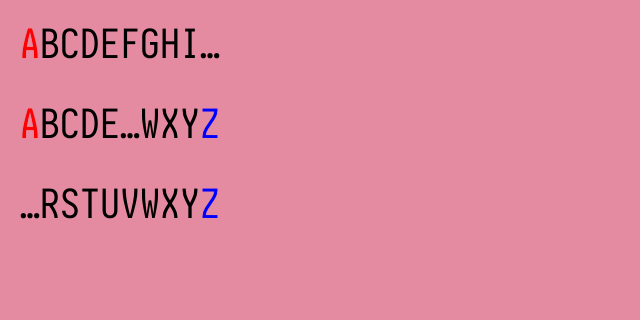
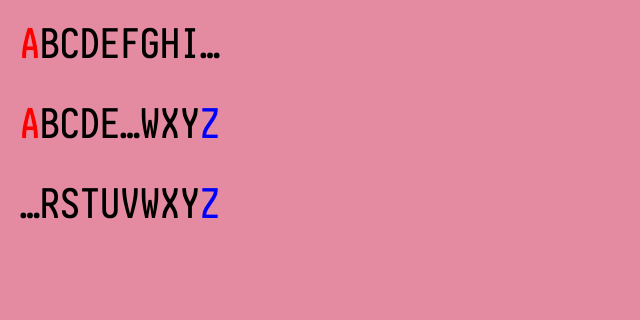
[V1 fix] Font-smoothed CoreText glyph masks on macOS
macOS draws text with font smoothing (stem darkening); the native mask path
drew alpha-only with smoothing off, so Rust text looked lighter than native Mac
apps. On macOS the mask now draws black on white in an opaque gray context with
smoothing on and inverts to coverage; iOS keeps the unsmoothed alpha path.

Evidence: font_sys native-canvas test (smoothed reference on macOS) passes;
Apple `_coretext` kit/ellipsis fixtures refreshed for this intentional raster
change, portable fixtures byte-identical; pxui_core 285, pxui 327, pxui_text 66,
pxui_render 48 tests; shape/deps/tiers gates pass.

Changed region(s): [[0.0312, 0.3438, 0.3438, 0.4375], [0.0312, 0.5938, 0.3438, 0.6875], [0.0312, 0.0938, 0.3438, 0.1875]]

diff --git a/crates/open/font_sys/src/mask.c b/crates/open/font_sys/src/mask.c
@@ -1,5 +1,6 @@
 #include <CoreGraphics/CoreGraphics.h>
 #include <CoreText/CoreText.h>
+#include <TargetConditionals.h>
 #include <math.h>
 #include <stdint.h>
 #include <string.h>
@@ -73,6 +74,19 @@ static int prepare_bitmap(CGContextRef *bitmap, size_t width, size_t height) {
     size_t h = *bitmap ? CGBitmapContextGetHeight(*bitmap) : 0;
     if (w >= width && h >= height) return 1;
 
+#if TARGET_OS_OSX
+    // macOS draws text with font smoothing (its stem darkening), which CoreGraphics applies only to glyphs on an opaque
+    // background: black on white in gray, inverted to coverage after drawing (`invert` below)
+    CGColorSpaceRef gray = CGColorSpaceCreateDeviceGray();
+    CGContextRef fresh = gray ? CGBitmapContextCreate(NULL, scratch_size(w, width), scratch_size(h, height),
+                                                      8, 0, gray, kCGImageAlphaNone) : NULL;
+    if (gray) CGColorSpaceRelease(gray);
+    if (!fresh) return 0;
+    CGContextSetAllowsAntialiasing(fresh, true);
+    CGContextSetShouldAntialias(fresh, true);
+    CGContextSetAllowsFontSmoothing(fresh, true);
+    CGContextSetShouldSmoothFonts(fresh, true);
+#else
     CGContextRef fresh = CGBitmapContextCreate(NULL, scratch_size(w, width), scratch_size(h, height),
                                                8, 0, NULL, kCGImageAlphaOnly);
     if (!fresh) return 0;
@@ -80,11 +94,16 @@ static int prepare_bitmap(CGContextRef *bitmap, size_t width, size_t height) {
     CGContextSetShouldAntialias(fresh, true);
     CGContextSetAllowsFontSmoothing(fresh, false);
     CGContextSetShouldSmoothFonts(fresh, false);
+#endif
     CGContextSetAllowsFontSubpixelPositioning(fresh, true);
     CGContextSetShouldSubpixelPositionFonts(fresh, true);
     CGContextSetAllowsFontSubpixelQuantization(fresh, true);
     CGContextSetShouldSubpixelQuantizeFonts(fresh, true);
+#if TARGET_OS_OSX
+    CGContextSetGrayFillColor(fresh, 0, 1);
+#else
     CGContextSetGrayFillColor(fresh, 1, 1);
+#endif
 
     if (*bitmap) CFRelease(*bitmap);
     *bitmap = fresh;
@@ -109,11 +128,22 @@ int pxui_font_mask_draw(CTFontRef font, CGContextRef *bitmap, CGGlyph glyph,
     if (!prepare_bitmap(bitmap, w, h)) return 0;
     uint8_t *pixels = CGBitmapContextGetData(*bitmap);
     size_t stride = CGBitmapContextGetBytesPerRow(*bitmap);
-    for (size_t y = 0; y < h; y++) memset(pixels + y * stride, 0, w);
+#if TARGET_OS_OSX
+    uint8_t blank = 255;
+#else
+    uint8_t blank = 0;
+#endif
+    for (size_t y = 0; y < h; y++) memset(pixels + y * stride, blank, w);
 
     CGPoint pen = CGPointMake(phase - left, CGBitmapContextGetHeight(*bitmap) - top);
     CTFontDrawGlyphs(font, &glyph, &pen, 1, *bitmap);
     CGContextFlush(*bitmap);
+#if TARGET_OS_OSX
+    // ink is dark on white: coverage is its inverse
+    for (size_t y = 0; y < h; y++) {
+        for (size_t x = 0; x < w; x++) pixels[y * stride + x] = 255 - pixels[y * stride + x];
+    }
+#endif
 
     size_t x0 = w, x1 = 0, y0 = h, y1 = 0;
     for (size_t y = 0; y < h; y++) {

diff --git a/crates/open/font_sys/src/mask.rs b/crates/open/font_sys/src/mask.rs
@@ -134,7 +134,7 @@ mod tests {
         fn CGContextFlush(ctx: Ref);
     }
 
-    /// Compare the reusable crop to a full opaque CoreText canvas at the same absolute baseline.
+    /// Compare the reusable crop to a full opaque CoreText canvas at the same absolute baseline, font-smoothed on macOS.
     #[test]
     fn grayscale_crop_matches_native_pixels_and_bearings_after_reuse() {
         const SIZE: usize = 128;
@@ -161,8 +161,9 @@ mod tests {
                     CGContextSetGrayFillColor(ctx, 1.0, 1.0);
                     CGContextFillRect(ctx, Rect { origin: Point { x: 0.0, y: 0.0 }, w: SIZE as f64, h: SIZE as f64 });
                     CGContextSetGrayFillColor(ctx, 0.0, 1.0);
-                    CGContextSetAllowsFontSmoothing(ctx, false);
-                    CGContextSetShouldSmoothFonts(ctx, false);
+                    // macOS text is font-smoothed (the native mask draws it so); iOS has no smoothing
+                    CGContextSetAllowsFontSmoothing(ctx, cfg!(target_os = "macos"));
+                    CGContextSetShouldSmoothFonts(ctx, cfg!(target_os = "macos"));
                     CGContextSetAllowsFontSubpixelPositioning(ctx, true);
                     CGContextSetShouldSubpixelPositionFonts(ctx, true);
                     CGContextSetAllowsFontSubpixelQuantization(ctx, true);

diff --git a/AGENTS.md b/AGENTS.md
@@ -56,7 +56,8 @@ nothing may reach outside this repository (no `../../..` paths past the root).
   slots with the same coordinates and atlas usage as a fresh walk. Mutable node access invalidates
   reused view and positioned-label node templates. The Apple raster's ppem-dependent horizontal
   phase rule is shared by glyph placement and cache replay.
-  On Apple, atlas misses use CoreText grayscale coverage for supported outline faces. Keep the
+  On Apple, atlas misses use CoreText grayscale coverage for supported outline faces; on macOS it is
+  drawn black on white with font smoothing on (native Mac text weight) and inverted, iOS has none. Keep the
   shaped face id, physical size, weight and baseline-relative bearings. Native font sources share
   the shaping bytes. Bound face, size and bitmap storage, and keep native work off atlas hits.
   Colour glyphs and unsupported native masks use Swash.
